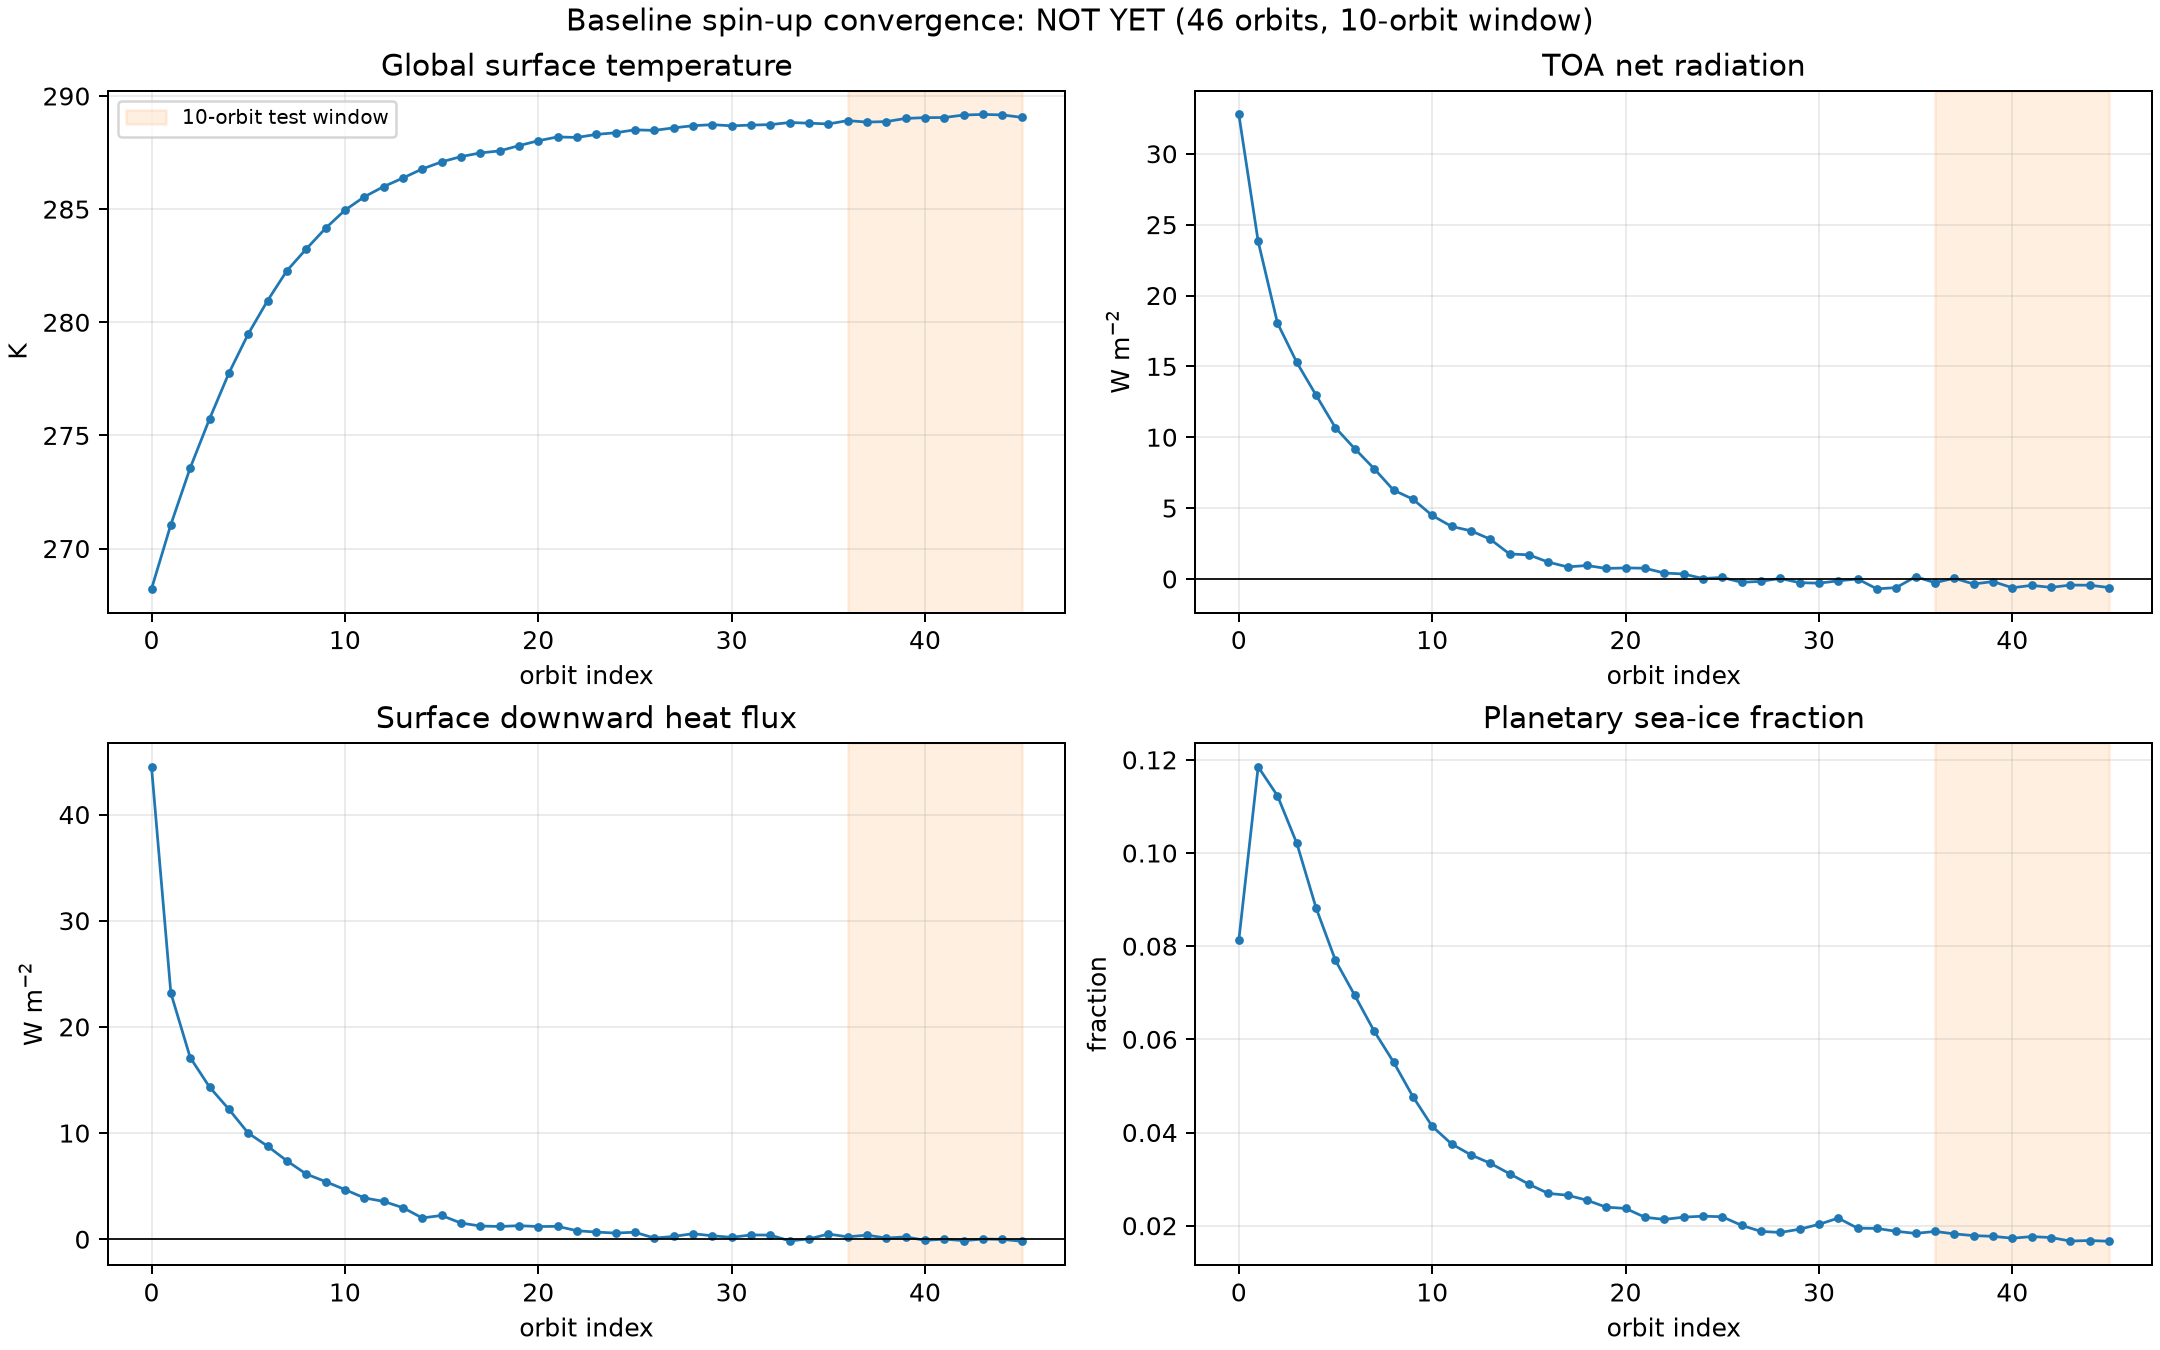
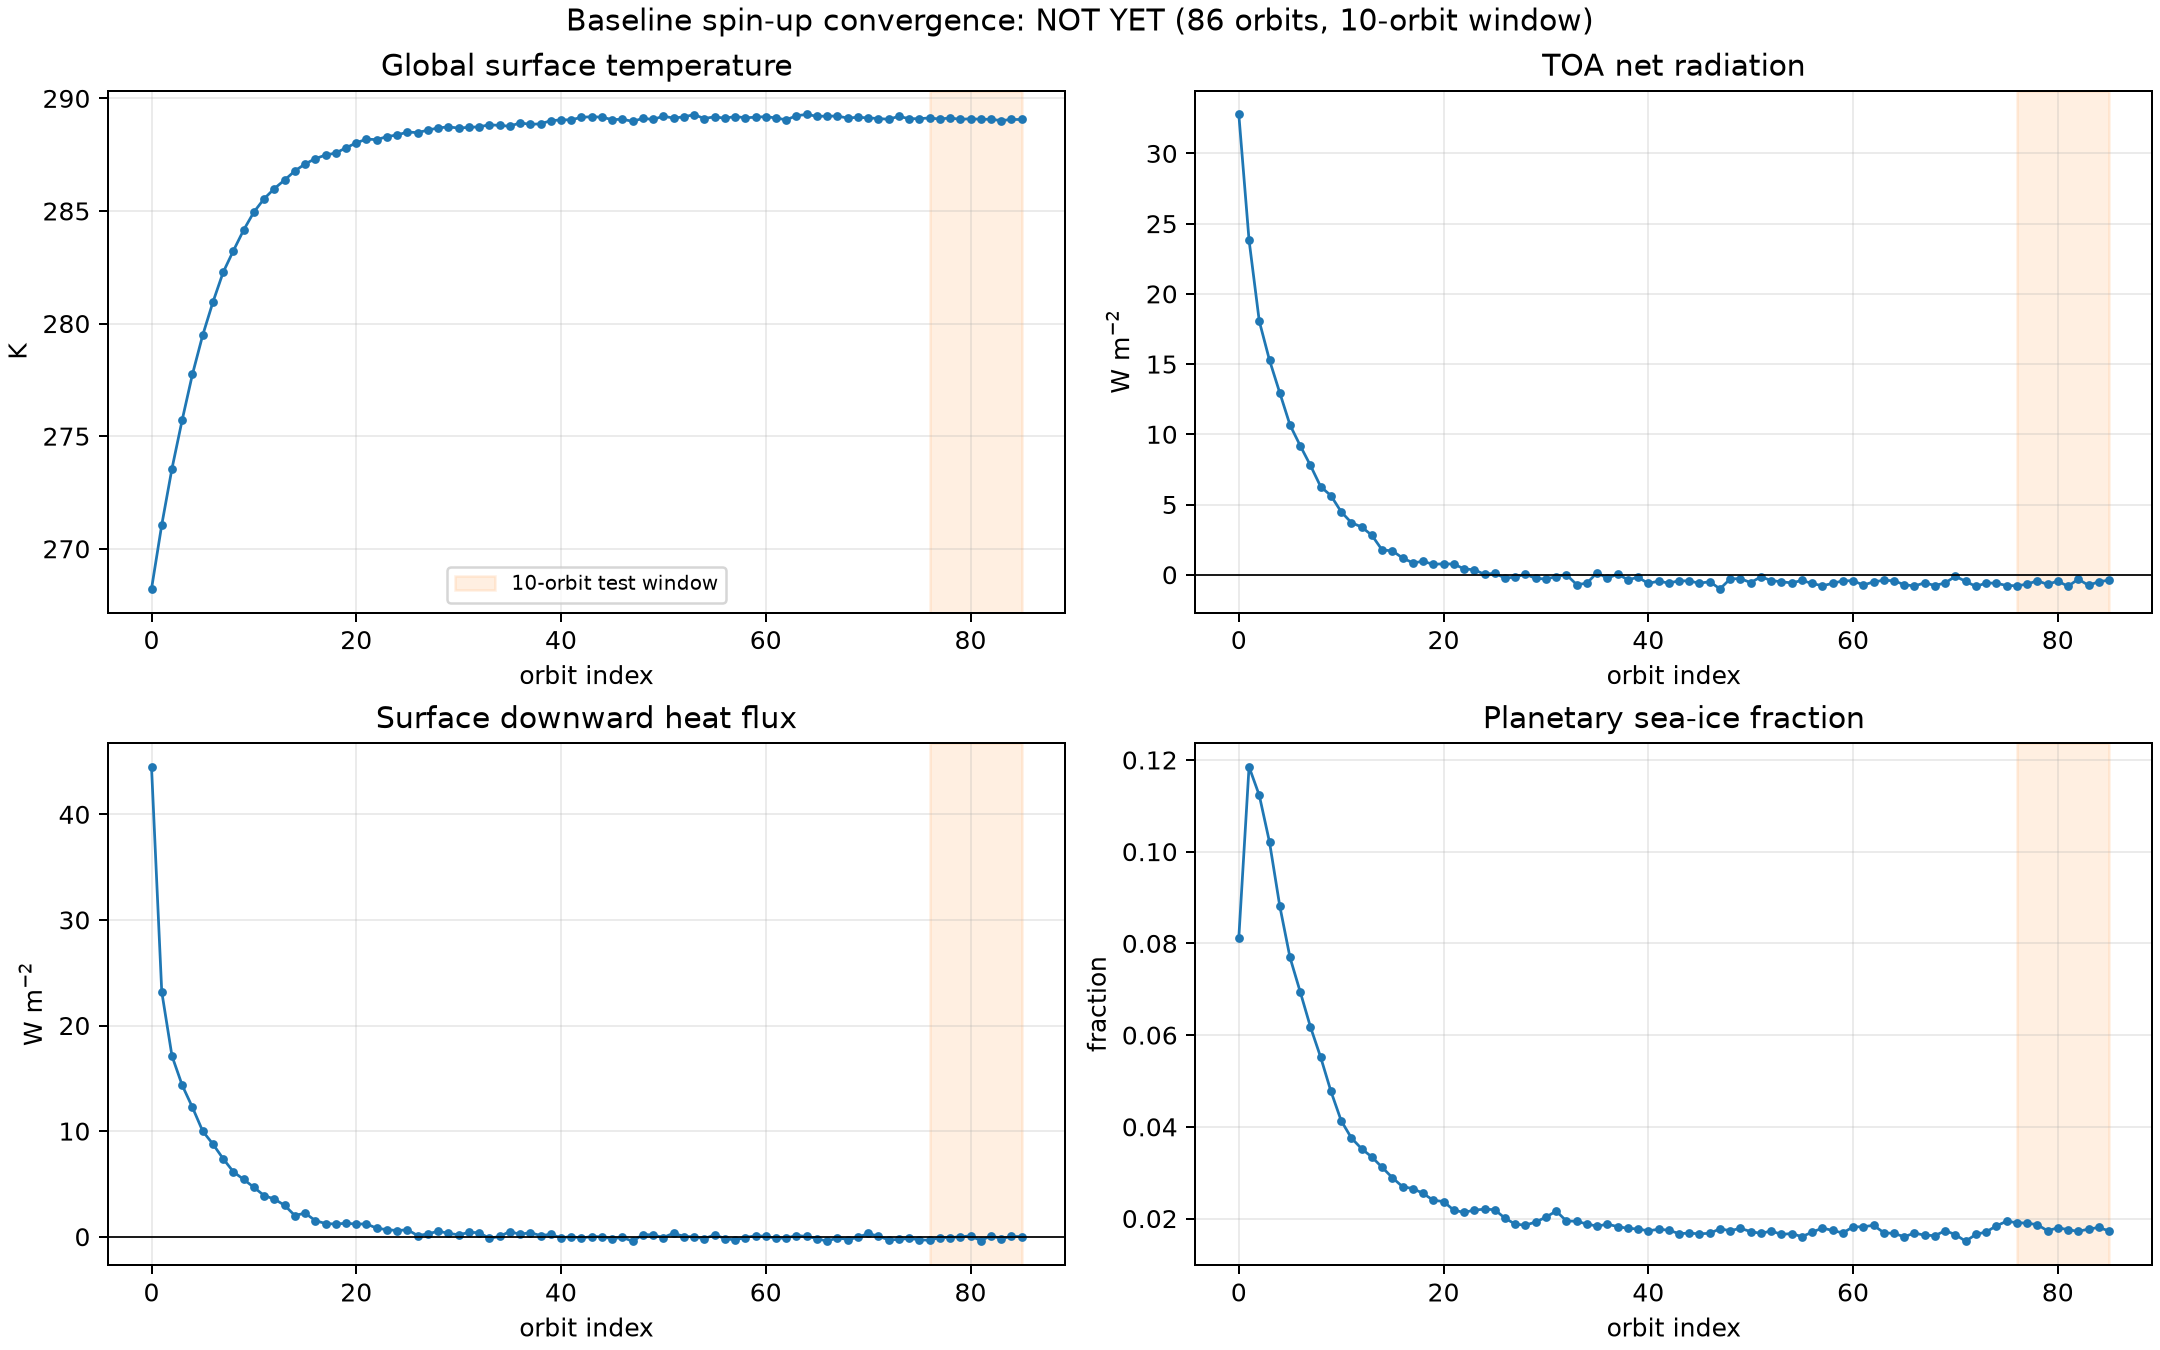
CLIM-1: the decomposition exists now, and one pair does not cancel
First run with nenergy on, so the 28 terms exist on this world for the first
time. Measured at three orbits of the settled 0.945 bootstrap.

The convective heating pair cancels to machine precision; the large-scale
condensation pair misses by a steady -1.55 to -1.59 W/m2 while the budget gap
itself runs -0.41 to -0.55. So it contains the gap at most rather than being it,
and it is recorded as a lead with that caveat attached rather than as the answer.

Two terms are not fluxes and must not be summed with the rest: denergy01 returns
1.9e9, and denergy28 is the mass-weighted column temperature at 251.70 K, which
radmod builds as sum(dt * dsigma).

CLIM-1 stays open with a sharper next step: read what rainmod accumulates into
11 and 15, then use the 3D set to say which layers it lives in.

diff --git a/exoplasim/notes/water-and-energy-closure.md b/exoplasim/notes/water-and-energy-closure.md
@@ -245,3 +245,40 @@ recorded energy closure gap was never real.
 
 None of it needed a model run. The general lesson is the cheap one: before
 calling a surprising number a defect, close the budget it belongs to.
+
+## The 28 terms, first look
+
+Measured 2026-08-17 on `run_b014469b8091`, the 0.945 bootstrap on
+`precarve-craton`, at orbits 65, 75 and 85 of an 86-orbit spin-up. This is the
+first run made with `nenergy` on, so it is the first time the decomposition has
+existed on this world rather than being described.
+
+The terms are written and readable: codes 360-387 as `denergy01` to `denergy28`,
+and 460-487 as `dener3d01` to `dener3d28` on 10 layers. Two of them are not
+fluxes and should not be summed with the rest: `denergy01` returns about 1.9e9,
+and `denergy28` is the mass-weighted column temperature, 251.70 K, which
+`radmod.f90:1290` builds as `sum(dt * dsigma)`.
+
+The gap this note exists to explain is stable and still there:
+
+| orbit | net top minus net surface | large-scale condensation, 11 + 15 | convection, 12 + 16 |
+| --- | ---: | ---: | ---: |
+| 65 | -0.5453 | -1.5699 | +0.0000 |
+| 75 | -0.4893 | -1.5884 | +0.0000 |
+| 85 | -0.4085 | -1.5525 | +0.0000 |
+
+**The convective pair cancels to machine precision and the large-scale pair does
+not.** Whatever 11 and 15 are, they are built the same way for the same process,
+and one pair balances while the other misses by a steady -1.55 to -1.59 W/m2
+across orbits that differ in their own imbalance.
+
+That is a lead rather than an answer, and it should not be quoted as one: the
+non-cancellation is about three times the gap and does not track it orbit by
+orbit, so at most it contains the gap rather than being it. Some of the
+difference is expected -- snowmelt's latent heat of fusion is 0.294 W/m2 by the
+independent route in this note, and it has to be booked somewhere.
+
+What remains for CLIM-1 is to read `rainmod.f90` for what exactly is accumulated
+into 11 and into 15, and whether the difference is a term the surface-to-top sum
+is missing or a diagnostic that was never meant to close. The 3D set on 460-487
+can then say which layers it lives in, which the column sums cannot.
